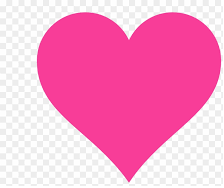
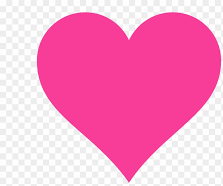
responsive website

diff --git a/Provy/styles/style.css b/Provy/styles/style.css
@@ -1,78 +1,127 @@
+*{
+    font-family: Georgia, 'Times New Roman', Times, serif;
+    padding: 0;
+    margin: 0;
+    
 
+}
 
 body {
-    display:flex;
-    flex-flow: column wrap;
+    display:grid;
+    grid-template-columns:25% 75%;
+    grid-template-rows: 7% 83% 10%;
+    grid-template-areas: 
+    "header header "
+    "aside main "
+    "footer footer ";
+  
 }
 header {
-    display: flex;
-    flex-direction: row;
-   
+    grid-area: header;
     background: linear-gradient(300deg, rgb(244, 245, 214), olive);
-    box-shadow: 0 2px 5px #b8bdb7;
-}
+    box-shadow: 0 5px 10px rgba(0, 0, 0, 0.1);
+    margin-bottom: 2px;
+    padding-bottom: 5px;
+      }
 main {
-    background-color: white;
-    display: flex;
-    flex-direction: row;
-    justify-content: space-between;
-   
+   background-color: white;
+   grid-area: main;
+   padding-left: 10px;
+   width: 800px;
+   margin-left: 30px;
+   padding: 10px;
+   gap: 5px;
 }
 section{
-    display: flex;
-    flex-direction: column;
-    justify-content: space-between;
-    width: 75%;
+    grid-area: section;
+    background-color: darkolivegreen;
 
 }
 aside{
-    background-color: #dddada;
-    width: 25%;
-    height:35%;
-    border-left: 2px solid black;
-    padding: 10px;
+   grid-area: aside;
+   margin-left: 20px;
+}
+.leftpart{
+    display: grid;
+    grid-template-columns: 1fr;
+    grid-template-rows: 50% 50%;
+    grid-template-areas: "part1"
+                         "part2";
 }
 
-nav {
+#part1{
+    grid-area: part1;
+    background-color: #b3b8b2;
+    border-radius: 5px;
+    box-shadow: rgb(20, 20, 20);
+   
+
+}
+#part2{
+    grid-area: part2;
+    
+}
+nav{
     display: flex;
-    flex-direction: row;
-    justify-content: space-stretch;
+    justify-content:center;
+    padding-top: 15px;
+    gap:10px;
+    
+    
+   
 }
 nav a{
     color:black;
     text-decoration:none;
-    text-align: center;
-    margin: 10px;
-}
 
+}
+article{
+    padding-bottom: 10px;
+}
 footer {
     
-    position: relative;
-    bottom:0;
+    grid-area: footer;
     background: linear-gradient(300deg, rgb(244, 245, 214), olive);
     text-align: center;
+    margin-top: 20px;
+    padding-top: 10px;
 }
+input,textarea,button{
+    border-radius: 10px;
+    border:solid 1px olive;
+    padding-top: 10px;
 
-
-
+}
 .form-group{
-    margin-bottom: 15px;
+    padding: 3px;
+    display: block;
+
+}
+button{
+ background: linear-gradient(150deg,olive, black);
+  color: white;
+  border: none;
+  padding: 8px;
+  border-radius: 10px;
+  cursor: pointer;
+  font-size: 20px;
+  transition: all 0.3s ease;
 }
 h2{
-    text-align: center;
-    background-color: olive;
-    font-family: Lobster, sans-serif;
-    border-radius: 20px;
-    width: 50%;
+    text-align:left;
+   
+    margin-left: 10px;
+    padding-bottom:  5px;
+    border-left: solid 3px olive;
+    font-style: italic;
+    text-decoration-color: olive;
    
 }
 
-figure{
-    position: relative;
-    display: flex;
-    flex-direction: row;
-    flex-wrap: wrap;
-    justify-content:space-around;
+.ifoto{
+    box-shadow: 10px rgb(53, 52, 52);
+    border-radius: 7px;
+    width: 300px;
 }
 .movepic{
     animation: move 5s infinite;
@@ -99,4 +148,46 @@ figure{
         transform: translateY(-100%);
     }
 }
+/*Responsive webpage for tablet*/
+@media (max-width:678px) 
+{
+    body{
+        grid-template-columns:1fr;
+        grid-template-rows: 5%,60%,30%,5%;
+        grid-template-areas: 
+    "header"
+    "main"
+    "aside"
+    "footer";
+    }
+    aside{
+        flex-direction: row;
+        text-align:start;
+        width: 300px;
+        height: 100px;
+    }
+    main{
+        flex-direction: column;
+        width: 400px;
+        margin-bottom: 10px;
+        border-radius: 10px;
+        box-shadow: 0 5px 10px rgba(0, 0, 0, 0.1);
+    }
+    .leftpart{
+    display: grid;
+    grid-template-columns:70%,30%;
+    grid-template-rows: 1fr;
+    grid-template-areas: "part1 part2";
+}
+#part1{
+    height: 100px;
 
+    box-shadow: 2px 5px 10px rgba(162, 214, 93, 0.1);
+}
+    ul,li{
+        height: 15px;
+        margin-left: 10px;
+       font-size: small;
+
+    }
+}

diff --git a/Provy/index.html b/Provy/index.html
@@ -8,16 +8,13 @@
   <meta name="author" content="Crox Studios">
   
   <!-- Page title (appears on browser tab) -->
-  <title>My First Web Page</title>
+  <title>Responsive Website</title>
 
   <!-- Link external files -->
   <link rel="stylesheet" href="styles/style.css"> <!-- External CSS file -->
   <link rel="icon" href="favicon.ico"> <!-- Website tab icon -->
 
   <!-- Internal CSS (optional) -->
-
-  <!-- External JS (optional, can also go in the body) -->
-  <script src="js/script.js" defer></script>
  
 </head>
 
@@ -25,8 +22,7 @@
 
 
   <header>
-    <img src="images/I.jpg" alt="photo" height="35px" >
-    <nav >
+    <nav>
        
     <a class="nav1" href="#budgeting">BUGDETING</a>
     <a class="nav1" href="#investing">INVESTING</a>
@@ -37,9 +33,8 @@
     </nav>
   </header>
    <!-- MAIN CONTENT AREA -->
-  
-   <main>
-    <aside>
+  <aside class="leftpart">
+    <div id="part1">
         <h4> In This Article</h4>
        <ul>
          <li>Independance and control</li>
@@ -48,31 +43,26 @@
          <li>Directly Helping People</li>
          <li> Oportunity for innovation</li>
        </ul>
-       <h4> What to</h4>
+       </div>
+       <!--IGICE CYIHARIYE  CYIRIMO ANIMATION-->
+       <div id="part2">
+       
+       
+      <img Class="movepic" src="images/car.png" width="100px">
+    
+       </div>
     </aside>
-
-    <!-- SECTION 1 -->
-  
-
- <section >
-   
+  <main>
+  <!-- IFOTO IBANZA --> 
     <figure>
-        <img src="images/food4.jpg" alt="ifoto" >
-        <div><img id="heart" src="images/images.png" width="100px"></div>
-        <figcaption>
-        <img Class="movepic" src="images/car.png" width="100px"></figcaption>
-
-        
- 
+        <img class="ifoto" src="images/food4.jpg" alt="ifoto" >
+        <figcaption>welcome image</figcaption>
     </figure>
  
- 
- 
-
-<!-- SECTION 2 with an ARTICLE -->
+<!-- article -->
 
   <article>
-      <h3>Who We Are</h3>
+      <h2>Who We Are</h2>
       <p>We are a creative studio passionate about design and technology education.
       Our goal is to empower learners and creators with the skills to turn ideas into reality.
        Through innovative training, modern tools, and  hands-on experiences, we make learning design and tech simple, fun, and impactful.
@@ -81,40 +71,35 @@
       </p>                                
   </article>
  
-<!-- DISPLAY na VISIBILITY, POSITION -->
+<!-- FORM YO GUTANGA IBITEKEREZO -->
 
-<form action="#" method="post"> <!-- DISPLAY: INLINE -->
- <div class="form-group">
-  <label for="name">Name:</label>
-  <input type="text" id="name" name="name" placeholder="Enter your name" required>
-  </div>
+<form action="#" method="post"> 
+
   <div class="form-group">
-  <label for="email">Email:</label>
-<input type="email" id="email" name="email" placeholder="Enter your email" required>
- </div>
-<div class="form-group">
+        <label for="name">Name:</label>
+        <input type="text" id="name" name="name" placeholder="Enter your name" required>
+    </div>
 
-<label for="message">Message:</label>
-<textarea id="message" name="message"></textarea>
-</div>
+    <div class="form-group">
+         <label for="email">Email:</label>
+        <input type="email" id="email" name="email" placeholder="Enter your email" required>
+    </div>
+    <div class="form-group">
+
+        <label for="message">Message:</label>
+        <textarea id="message" name="message"></textarea>
+    </div>
+
 
  <button type="submit">Send Message</button>
    </form>
 
-</section>
-
-
   </main>
-
-
 
 
   <!-- FOOTER: bottom of the page -->
   <footer>
-    <address >
-      Contact us at <a href="mailto:aprovish@gmail.com">aprovish@gmail.com</a>
-    </address>
-    <p>2025 smart250. All rights reserved.</p>
+    <p>2025 All rights reserved.</p>
   </footer>
 
 </body>
